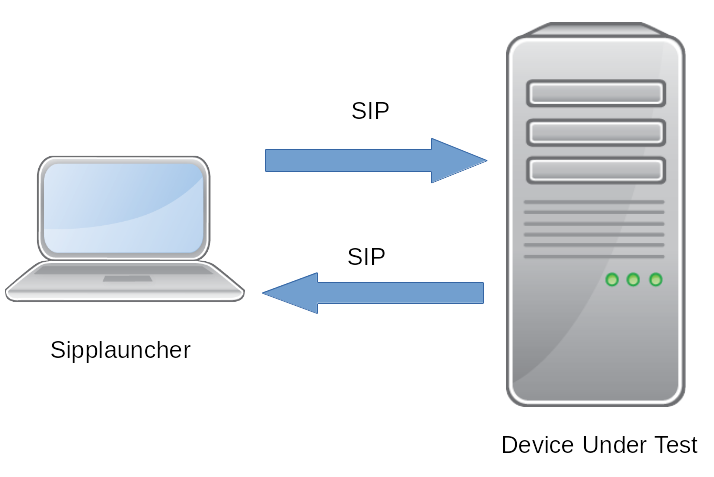
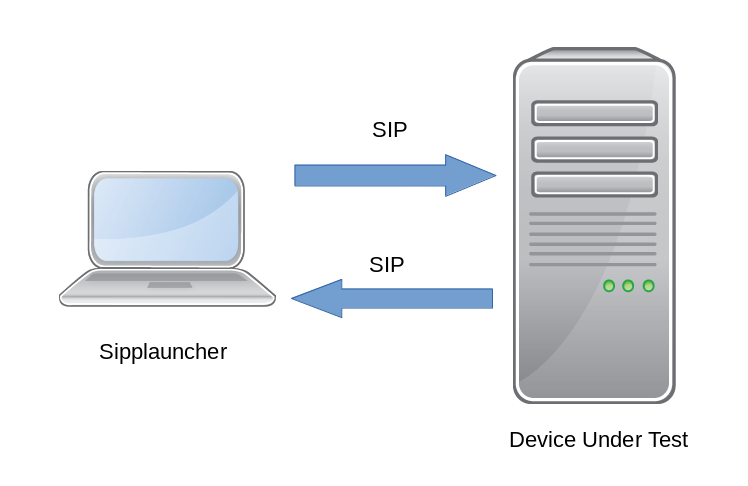
Issue #19: Embed DNS server (#36)
* Issue #19: Embed DNS server

* upd

* upd

* upd

* upd

* upd

* image added

* image added

* upd

* upd

* upd

* upd

* fix

* fix grammar

* fix

* made white background (not transparent)

* fix

diff --git a/docs/user_guide.md b/docs/user_guide.md
@@ -167,6 +167,34 @@ When preparing a test to run, the keywords inside all test's scripts are [replac
 If `before.sh` exits with non-zero exit code, a test execution stops.
 If either `before.sh` or `after.sh` exits with non-zero exit code, the test is considered failed.
 
+#### DNS zone description file
+
+A file named `dns.txt` is considered the DNS zone description file.
+
+When preparing a test to run, the keywords inside this file are [replaced](#keyword-replacement).
+
+Then the contents of this file are added to the [Embedded DNS server](#embedded-dns-server).
+
+After the test is finished, the file is removed from the [Embedded DNS server](#embedded-dns-server).
+
+The example of a `dns.txt` contents:
+
+```bash
+ep1.example.com  A       {{ '{{' }}ua1.host{{ '}}' }}
+
+# UDP SRV records
+_sip._udp.example.com.         SRV [10, 60, 5060, "ep1.example.com."]
+
+# TCP SRV records
+_sip._tcp.example.com.         SRV [10, 60, 5060, "ep1.example.com."]
+
+# TLS SRV records
+_sip._tls.example.com.         SRV [10, 60, 5061, "ep1.example.com."]
+
+# SIPS SRV records
+_sips._tcp.example.com.         SRV [10, 60, 5061, "ep1.example.com."]
+```
+
 ### Injection file
 
 Injection file is passed to Sipplauncher with `--sipp-info-file` command-line option.
@@ -278,6 +306,7 @@ Then Sipplauncher launches SIPp instances in the working directory of a [Test ru
 After the test has finished, [Test run folder](#test-run-folder) contains:
 
 - [scripts](#scripts) and [SIPp scenarios](#sipp-scenarios), which were run during the test
+- [DNS zone description file](#dns-zone-description-file), which was served by the [Embedded DNS server](#embedded-dns-server)
 - all [log files](#log-files)
 - generated [TLS](#tls) certificates, private keys and [session keys](#decrypting-tls-traffic)
 - [pcap](#pcap-capturing) file
@@ -303,6 +332,7 @@ The [Template engine](#template-engine) processes the following files:
 
 - [scripts](#scripts)
 - [SIPp scenarios](#sipp-scenarios)
+- [DNS zone description file](#dns-zone-description-file)
 
 ### Keyword replacement
 
@@ -336,6 +366,68 @@ Then the address is assigned to a machine, which runs Sipplauncher.
 The number of assigned IP addresses corresponds to the number of [SIPp scenarios](#sipp-scenarios) in a [test](#tests).
 
 After the test has finished, the allocated IP addresses are deleted.
+
+## Embedded DNS server
+
+Sipplauncher has the DNS server inside.
+
+This makes possible to mock DNS names resolution for a DUT.
+Thus, if requested, Sipplauncher adds [dynamically](#dynamic-ip-address-assignment) assigned IP addresses to the embedded DNS server.
+And then [SIPp scenarios](#sipp-scenarios) might use domain names instead of IP addresses.
+This allows testing how a DUT works with regards to the DNS name resolution.
+
+![](assets/images/sipplauncher_dns.png)
+
+Of course, the DUT should be configured to use Sipplauncher's DNS service instead of regular DNS servers.
+Usually, this requires patching the DUT's `/etc/resolve.conf` like this:
+
+```bash
+search example.com
+nameserver 10.22.22.22
+```
+
+Here `10.22.22.22` - is the IP address of Sipplauncher's VM.
+
+Sipplauncher launches the DNS service on UDP port `53`, if at least one [Test](#tests) has [DNS zone description file](#dns-zone-description-file) in it.
+
+* When a [Test](#tests) is [prepared](developer_guide.md#1-pre-run), a [DNS zone description file](#dns-zone-description-file) is added to the DNS server.
+* When a [Test](#tests) is [cleaned](developer_guide.md#3-post-run), a [DNS zone description file](#dns-zone-description-file) is removed from the DNS server.
+
+The DNS server has only a single instance.
+It's shared among all the [Tests](#tests).
+Therefore, to support concurrent test execution (see `--group` command-line argument), tests should avoid defining overlapping DNS zone information.
+
+For example, `TestA` defines such entry in its `dns.txt`:
+
+```
+ep1.example.com  A       {{ '{{' }}ua1.host{{ '}}' }}
+```
+
+And `TestB` defines the same entry in its `dns.txt`:
+
+```
+ep1.example.com  A       {{ '{{' }}ua2.host{{ '}}' }}
+```
+
+Then a single DNS server instance will be configured this way:
+
+```
+ep1.example.com  A       10.22.22.123
+ep1.example.com  A       10.22.22.210
+```
+
+Therefore, information for `ep1.example.com` is overlapping.
+This will cause undefined behavior when a DUT attempts to resolve `ep1.example.com`.
+
+!!! Note
+    The same issue will occur if `TestB` defines an entry in its `dns.txt` this way:
+
+    ```
+    ep1.example.com  A       {{ '{{' }}ua1.host{{ '}}' }}
+    ```
+
+    Due to the [Dynamic IP address assignment](#dynamic-ip-address-assignment), `{{ '{{' }}ua1.host{{ '}}' }}` will be replaced with different IP addresses for TestA and TestB.
+    And thus the collision will occur.
 
 ## TLS
 

diff --git a/docs/developer_guide.md b/docs/developer_guide.md
@@ -162,6 +162,7 @@ For each of them, `SIPpTest.pre_run()` method is executed, which:
 
     - [Scripts](user_guide.md#scripts): result of `glob.glob("*.sh")`.
     - [SIPp scenarios](user_guide.md#sipp-scenarios): the files, which match pattern `^(ua[cs])_(ua[0-9]+).xml$` or `^([a-zA-Z0-9]+)_(ua[cs])_(ua[0-9]+).xml$`.
+    - [DNS zone description file](user_guide.md#dns-zone-description-file): a `dns.txt` file.
 
     All these files are rendered by the [Jinja2](https://en.wikipedia.org/wiki/Jinja_(template_engine)) API `Template.render()`.
 
@@ -172,20 +173,28 @@ For each of them, `SIPpTest.pre_run()` method is executed, which:
     The process is described [here](user_guide.md#tls).
     Python `OpenSSL` library is used.
 
-8. **Activates pcap sniffing**
+8. **Adds DNS zone description to the embedded DNS server**
+
+    If the [Embedded DNS server](user_guide.md#embedded-dns-server) hasn't been launched yet, it's launched now.
+
+    Then a [DNS zone description file](user_guide.md#dns-zone-description-file) is added to the embedded DNS server.
+
+    Python `dnslib` library is used.
+
+9. **Activates pcap sniffing**
 
     We use `scapy.sendrecv.AsyncSniffer` to start a new background thread.
     This thread installs the [BPF](https://en.wikipedia.org/wiki/Berkeley_Packet_Filter) on all system network interfaces.
     The BPF matches all traffic regarding [Dynamically assigned IP addresses](user_guide.md#dynamic-ip-address-assignment) for this particular [Test](user_guide.md#tests) run.
     The captured traffic is stored in the memory buffer.
 
-9. **Runs before.sh**
+10. **Runs before.sh**
 
     If `before.sh` is present in a [Test run folder](user_guide.md#test-run-folder), we execute it with `subprocess.Popen()` API.
 
     Then we wait for it to finish and check its exit code.
 
-10. **Transits the Test into the READY state**
+11. **Transits the Test into the READY state**
 
     If we got an error at any of the steps above - the TEST gets transited into the NOT READY state.
     Sipplauncher doesn't move to the next stages in this case.
@@ -258,14 +267,16 @@ For each of them, `SIPpTest.post_run()` method is executed, which:
 
     Then we store the sorted memory buffer in file `sipp-<test_run_id>.pcap` in a [Test run folder](user_guide.md#test-run-folder).
 
-4. **Removes a test run folder**
+4. **Removes DNS zone description from the embedded DNS server**
+
+5. **Removes a test run folder**
 
     We remove it with `shutil.rmtree()`, unless the `--leave-temp` [command-line argument](user_guide.md#command-line-arguments) was provided.
 
-5. **Removes dynamic IP addresses**
+6. **Removes dynamic IP addresses**
 
     We remove a "dummy" pseudo-interface with name `sipp-<test_run_id>`.
 
-6. **Transits the Test into the CLEAN state**
+7. **Transits the Test into the CLEAN state**
 
     If we got an error at any of the steps above - the TEST gets transited into the DIRTY state.

diff --git a/docs/index.md b/docs/index.md
@@ -16,6 +16,7 @@ Features:
 - [Dynamically](user_guide/#dynamic-ip-address-assignment) creates networking pseudo-interfaces, to which SIPp instances will be bound.
 - Each test execution will generate a [.pcap file](user_guide/#pcap-capturing) if desired.
 - Ability to provision and/or clean-up Device Under Test (DUT) using [BASH scripts](user_guide/#scripts).
+- [Embeds DNS server](user_guide/#embedded-dns-server) to support DNS mocking for the [dynamically](user_guide/#dynamic-ip-address-assignment) assigned IP addresses.
 
 ![](assets/images/sipplauncher.png)
 
